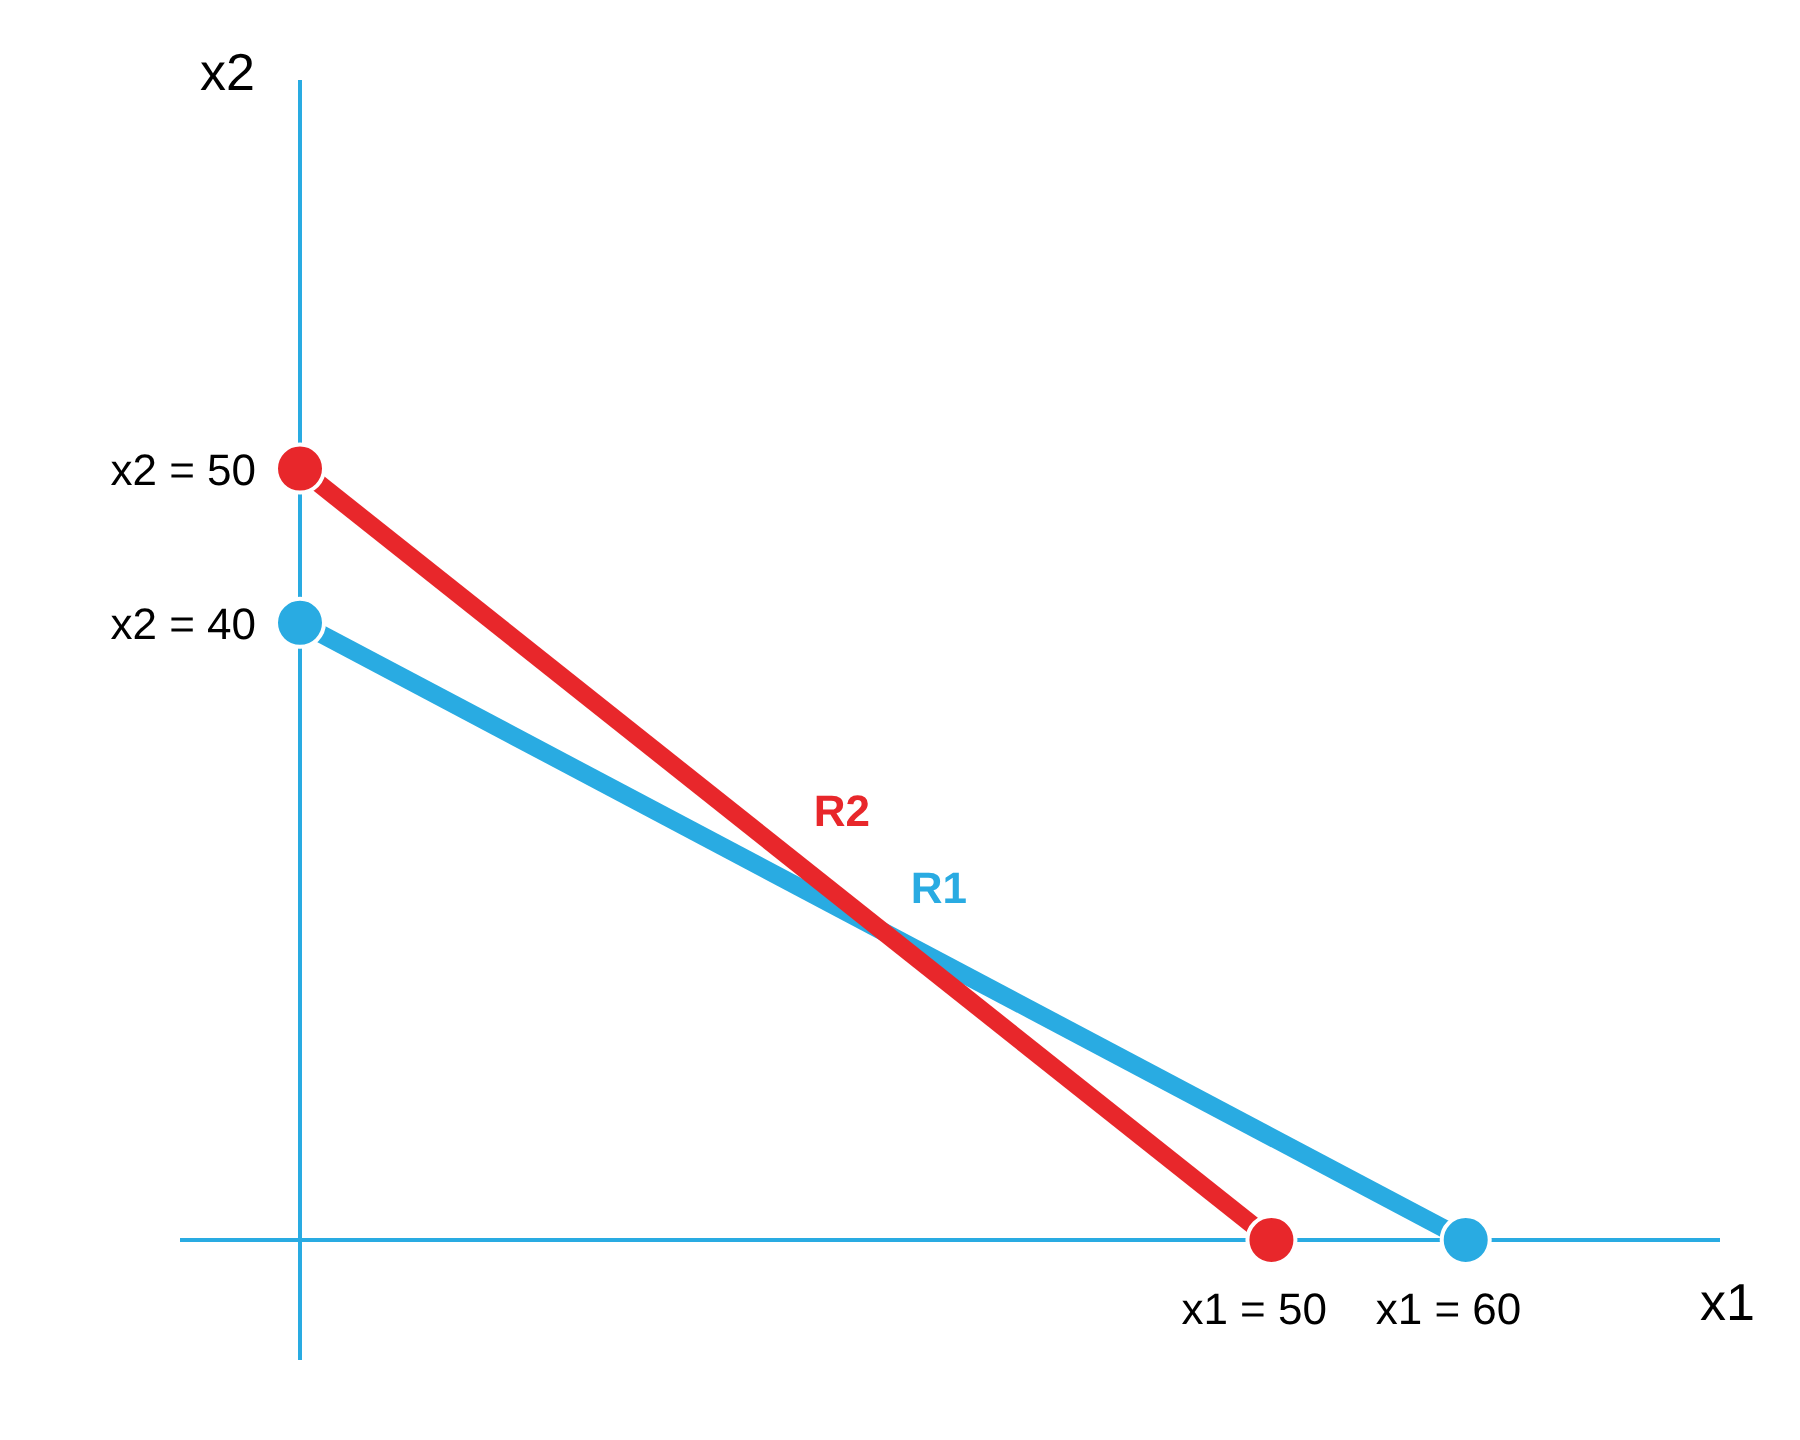
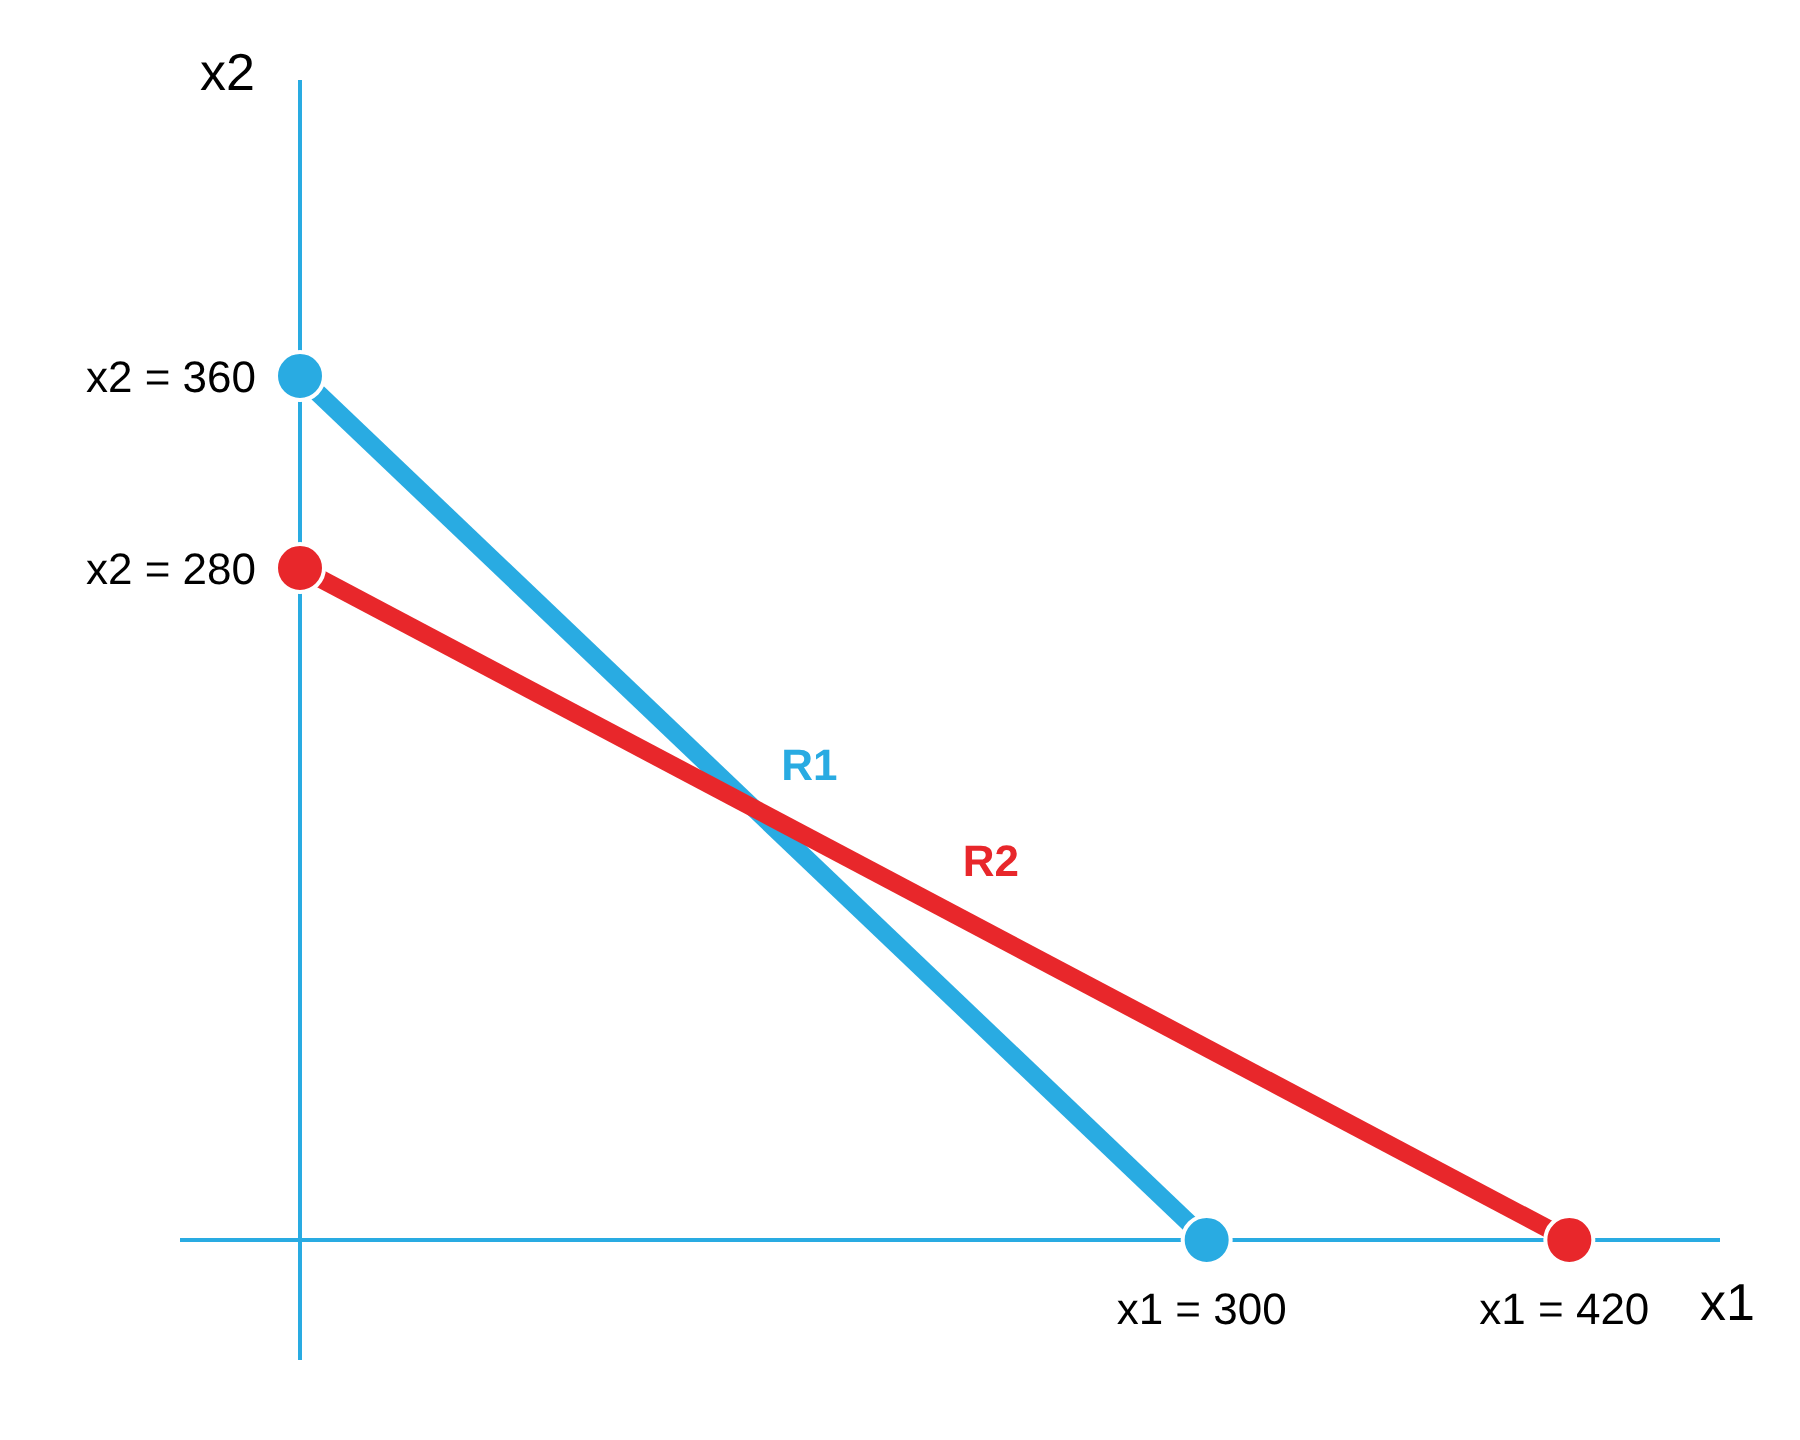
Método gráfico FIBO: datos aproximados realistas (cajas de 12, aislado de suero, tiempos de línea, marketing) y gráficas actualizadas
Claude-Session: https://claude.ai/code/session_01EttaFx3XE8a8nmruHneUwD

Changed region(s): [[0.0622, 0.25, 0.9022, 0.9375]]

diff --git a/metodo-grafico-fibo/graficas.js b/metodo-grafico-fibo/graficas.js
@@ -5,16 +5,16 @@ const fs = require('fs');
 const AZUL = '#29abe2', ROJO = '#e8272b', AMARILLO = '#f2e600';
 
 const problemas = [
-  { archivo: 'ejercicio-1', max: 70, lineas: [
-    { n: 'R1', x1: 60, x2: 40, c: AZUL },
-    { n: 'R2', x1: 50, x2: 50, c: ROJO } ] },
-  { archivo: 'ejercicio-2', max: 110, lineas: [
-    { n: 'R1', x1: 50, x2: 100, c: AZUL },
-    { n: 'R2', x1: 100, x2: 50, c: ROJO },
-    { n: 'R3', x1: 70, x2: 70, c: AMARILLO } ] },
-  { archivo: 'ejercicio-3', max: 170, lineas: [
-    { n: 'R1', x1: 100, x2: 100, c: AZUL },
-    { n: 'R2', x1: 160, x2: 80, c: ROJO } ] },
+  { archivo: 'ejercicio-1', max: 450, lineas: [
+    { n: 'R1', x1: 300, x2: 360, c: AZUL },
+    { n: 'R2', x1: 420, x2: 280, c: ROJO } ] },
+  { archivo: 'ejercicio-2', max: 540, lineas: [
+    { n: 'R1', x1: 250, x2: 500, c: AZUL },
+    { n: 'R2', x1: 420, x2: 210, c: ROJO },
+    { n: 'R3', x1: 330, x2: 330, c: AMARILLO } ] },
+  { archivo: 'ejercicio-3', max: 90, lineas: [
+    { n: 'R1', x1: 60, x2: 60, c: AZUL },
+    { n: 'R2', x1: 80, x2: 40, c: ROJO } ] },
 ];
 
 function svg(p) {
@@ -29,12 +29,14 @@ function svg(p) {
   for (const l of p.lineas) {
     out += `<line x1="${X(0)}" y1="${Y(l.x2)}" x2="${X(l.x1)}" y2="${Y(0)}" stroke="${l.c}" stroke-width="9"/>`;
   }
+  const orden = [...p.lineas].sort((a, b) => a.x1 - b.x1);
+  orden.forEach((l, i) => { l.dy = i > 0 && (l.x1 - orden[i - 1].x1) * s < 110 && !orden[i - 1].dy ? 30 : 0; });
   for (const l of p.lineas) {
     const borde = l.c === AMARILLO ? '#555' : '#fff';
     out += `<circle cx="${X(0)}" cy="${Y(l.x2)}" r="12" fill="${l.c}" stroke="${borde}" stroke-width="2"/>
       <circle cx="${X(l.x1)}" cy="${Y(0)}" r="12" fill="${l.c}" stroke="${borde}" stroke-width="2"/>
       <text x="${X(0) - 22}" y="${Y(l.x2) + 8}" font-size="22" text-anchor="end">x2 = ${l.x2}</text>
-      <text x="${X(l.x1) - 45}" y="${oy + 42}" font-size="22">x1 = ${l.x1}</text>
+      <text x="${X(l.x1) - 45}" y="${oy + 42 + l.dy}" font-size="22">x1 = ${l.x1}</text>
       <text x="${X(l.x1 * 0.5) + 14}" y="${Y(l.x2 * 0.5) - 14}" font-size="22" font-weight="bold" fill="${l.c === AMARILLO ? '#b5a800' : l.c}">${l.n}</text>`;
   }
   return out + '</svg>';

diff --git a/metodo-grafico-fibo/README.md b/metodo-grafico-fibo/README.md
@@ -1,171 +1,204 @@
 # Método gráfico con FIBO
 
 Tres ejercicios con la barra FIBO, resueltos con el mismo procedimiento de la Clase 02
-(Introducción al Método Gráfico): Paso 1 a Paso 4. Los números son ilustrativos.
+(Introducción al Método Gráfico): Paso 1 a Paso 4.
+
+Los datos son **aproximados**: no tenemos las cifras reales de El Molino, así que se estimaron
+con valores típicos de la industria de barras de proteína. Debajo de cada ejercicio está de dónde sale cada número.
+
+Datos base de FIBO: barra de 65 g con 22 g de proteína, precio al público aprox. $43 (fibo.mx).
+Unidad de producción: **caja de 12 barras**. Turno: 8 h, de las que 7 h (420 min) son efectivas
+(se descuentan arranque, limpieza y comida).
 
 Nota: los valores "x1" se representan en el eje X (horizontal) y los valores "x2" en el eje Y (vertical).
 Condición de no negatividad: x1 ≥ 0, x2 ≥ 0 (solo primer cuadrante).
 
 ---
 
-## Ejercicio 1 (2 restricciones)
+## Ejercicio 1: Producción de Chocolate y Cookies (2 restricciones)
 
-El Molino produce dos sabores de FIBO y quiere maximizar su utilidad diaria.
-Cada caja de Chocolate deja $120 y cada caja de Cookies deja $150.
-Cada caja de Chocolate usa 2 kg de proteína y cada caja de Cookies usa 3 kg; hay 120 kg al día.
-Cada caja (de cualquier sabor) usa 1 hora de empacado; hay 50 horas al día.
+### Datos aproximados
 
-Variables de decisión:
-- x1 = cajas de FIBO Chocolate a producir
-- x2 = cajas de FIBO Cookies a producir
+| Concepto | Chocolate | Cookies | Disponible por turno |
+|---|---|---|---|
+| Aislado de suero (kg por caja) | 0.30 | 0.25 | 90 kg |
+| Tiempo de formado (min por caja) | 1 | 1.5 | 420 min |
+| Utilidad (por caja) | $120 | $114 | |
+
+De dónde salen:
+- **Aislado de suero:** tiene alrededor de 90% de proteína. Para que la barra de Chocolate llegue a 22 g de proteína se necesitan unos 25 g de aislado por barra: 25 g × 12 = 300 g = **0.30 kg por caja**. La de Cookies lleva trozos de galleta y crispies proteicos que aportan parte de la proteína, así que usa menos aislado: unos 21 g por barra, que da **0.25 kg por caja**.
+- **90 kg por turno:** el aislado llega en sacos de 20 kg; el almacén libera 4 sacos y medio por turno.
+- **Tiempo de formado:** una línea semiautomática (mezclado, laminado y corte) saca unas 12 barras por minuto, o sea **1 caja por minuto**. Cookies lleva una capa de galleta extra y la línea va más lento: **1.5 min por caja**.
+- **Utilidad:** la barra se vende a tiendas en unos $30 (el público paga ~$43) y cuesta producirla unos $20, así que deja ~$10 por barra: **$120 por caja**. Cookies tiene ingredientes más caros y deja ~$9.50 por barra: **$114 por caja**.
+
+### Variables de decisión
+- x1 = cajas de FIBO Chocolate a producir por turno
+- x2 = cajas de FIBO Cookies a producir por turno
 
 ```
 Maximizar:
-    F.O.:   120x1 + 150x2
+    F.O.:   120x1 + 114x2
 Sujeto a:
-    R1:   2x1 + 3x2 ≤ 120     (proteína)
-    R2:   1x1 + 1x2 ≤ 50      (empacado)
+    R1:   0.30x1 + 0.25x2 ≤ 90     (kg de aislado de suero)
+    R2:   1x1 + 1.5x2 ≤ 420        (minutos de formado)
 ```
 
-Paso 1: Crear un sistema de ecuaciones con igualdades
+**Paso 1: Crear un sistema de ecuaciones con igualdades**
 ```
-R1:  2x1 + 3x2 ≤ 120   →   2x1 + 3x2 = 120
-R2:  1x1 + 1x2 ≤ 50    →   1x1 + 1x2 = 50
-```
-
-Paso 2: Encontrar valores X1 y X2 en ambas ecuaciones (eliminar X2 para encontrar X1 y viceversa)
-```
-1)  2x1 = 120
-    3x2 = 120
-
-2)  1x1 = 50
-    1x2 = 50
+R1:  0.30x1 + 0.25x2 ≤ 90    →   0.30x1 + 0.25x2 = 90
+R2:  1x1 + 1.5x2 ≤ 420       →   1x1 + 1.5x2 = 420
 ```
 
-Paso 3: Despejar ecuación y encontrar valor X1 y X2
+**Paso 2: Encontrar valores X1 y X2 en ambas ecuaciones (eliminar X2 para encontrar X1 y viceversa)**
 ```
-1)  2x1 = 120 → x1 = 120/2 = 60
-    3x2 = 120 → x2 = 120/3 = 40
+1)  0.30x1 = 90
+    0.25x2 = 90
 
-2)  1x1 = 50  → x1 = 50/1 = 50
-    1x2 = 50  → x2 = 50/1 = 50
+2)  1x1 = 420
+    1.5x2 = 420
 ```
 
-Paso 4: Representar valores en gráfica (plano cartesiano)
-- R1 (azul): de x1 = 60 a x2 = 40
-- R2 (rojo): de x1 = 50 a x2 = 50
+**Paso 3: Despejar ecuación y encontrar valor X1 y X2**
+```
+1)  0.30x1 = 90 → x1 = 90/0.30 = 300
+    0.25x2 = 90 → x2 = 90/0.25 = 360
+
+2)  1x1 = 420   → x1 = 420/1 = 420
+    1.5x2 = 420 → x2 = 420/1.5 = 280
+```
+
+**Paso 4: Representar valores en gráfica (plano cartesiano)**
+- R1 (azul): de x1 = 300 a x2 = 360
+- R2 (rojo): de x1 = 420 a x2 = 280
 
 ![Ejercicio 1](ejercicio-1.png)
 
 ---
 
-## Ejercicio 2 (3 restricciones)
+## Ejercicio 2: Producción de Brownie y Frutos rojos (3 restricciones)
 
-FIBO va a producir lotes de Brownie y Frutos rojos y quiere maximizar su utilidad.
-Cada lote de Brownie deja $3 mil y cada lote de Frutos rojos deja $2 mil.
-- Proteína: Brownie usa 2 kg y Frutos rojos 1 kg por lote; hay 100 kg.
-- Cobertura/relleno: Brownie usa 1 kg y Frutos rojos 2 kg por lote; hay 100 kg.
-- Horas de horno: cada lote usa 1 hora; hay 70 horas.
+### Datos aproximados
 
-Variables de decisión:
-- x1 = lotes de FIBO Brownie a producir
-- x2 = lotes de FIBO Frutos rojos a producir
+| Concepto | Brownie | Frutos rojos | Disponible por turno |
+|---|---|---|---|
+| Cobertura de chocolate (kg por caja) | 0.24 | 0.12 | 60 kg |
+| Tiempo de mezclado y formado (min por caja) | 1 | 2 | 420 min |
+| Tiempo de empacado (min por caja) | 1 | 1 | 330 min |
+| Utilidad (por caja) | $120 | $102 | |
+
+De dónde salen:
+- **Cobertura de chocolate:** la de Brownie va bañada completa, unos 20 g por barra: 20 × 12 = **0.24 kg por caja**. La de Frutos rojos solo lleva base de chocolate, unos 10 g por barra: **0.12 kg por caja**. La temperadora de chocolate prepara **60 kg por turno**.
+- **Mezclado y formado:** Brownie va a 1 caja por minuto. A Frutos rojos se le agrega fruta liofilizada con cuidado para no romperla, así que va a la mitad de velocidad: **2 min por caja**.
+- **Empacado:** la empacadora flow-pack (envoltura individual) más el armado de la caja toma **1 min por caja** para cualquier sabor. Solo está libre **330 min** para FIBO porque el resto del turno empaca otros productos de El Molino y se hace cambio de formato.
+- **Utilidad:** Brownie deja ~$10 por barra (**$120 por caja**). La fruta liofilizada es cara, así que Frutos rojos deja ~$8.50 por barra (**$102 por caja**).
+
+### Variables de decisión
+- x1 = cajas de FIBO Brownie a producir por turno
+- x2 = cajas de FIBO Frutos rojos a producir por turno
 
 ```
 Maximizar:
-    F.O.:   3x1 + 2x2
+    F.O.:   120x1 + 102x2
 Sujeto a:
-    R1:   2x1 + 1x2 ≤ 100     (proteína)
-    R2:   1x1 + 2x2 ≤ 100     (cobertura/relleno)
-    R3:   1x1 + 1x2 ≤ 70      (horas de horno)
+    R1:   0.24x1 + 0.12x2 ≤ 60     (kg de cobertura de chocolate)
+    R2:   1x1 + 2x2 ≤ 420          (minutos de mezclado y formado)
+    R3:   1x1 + 1x2 ≤ 330          (minutos de empacado)
 ```
 
-Paso 1: Crear un sistema de ecuaciones con igualdades
+**Paso 1: Crear un sistema de ecuaciones con igualdades**
 ```
-R1:  2x1 + 1x2 = 100
-R2:  1x1 + 2x2 = 100
-R3:  1x1 + 1x2 = 70
-```
-
-Paso 2: Encontrar valores X1 y X2 en las ecuaciones (eliminar X2 para encontrar X1 y viceversa)
-```
-R1:  2x1 = 100
-     1x2 = 100
-
-R2:  1x1 = 100
-     2x2 = 100
-
-R3:  1x1 = 70
-     1x2 = 70
+R1:  0.24x1 + 0.12x2 = 60
+R2:  1x1 + 2x2 = 420
+R3:  1x1 + 1x2 = 330
 ```
 
-Paso 3: Despejar ecuación y encontrar valor X1 y X2
+**Paso 2: Encontrar valores X1 y X2 en las ecuaciones (eliminar X2 para encontrar X1 y viceversa)**
 ```
-R1:  2x1 = 100 → x1 = 100/2 = 50
-     1x2 = 100 → x2 = 100/1 = 100
+R1:  0.24x1 = 60
+     0.12x2 = 60
 
-R2:  1x1 = 100 → x1 = 100/1 = 100
-     2x2 = 100 → x2 = 100/2 = 50
+R2:  1x1 = 420
+     2x2 = 420
 
-R3:  1x1 = 70  → x1 = 70/1 = 70
-     1x2 = 70  → x2 = 70/1 = 70
+R3:  1x1 = 330
+     1x2 = 330
 ```
 
-Paso 4: Representar valores en gráfica (plano cartesiano)
-- R1 (azul): de x1 = 50 a x2 = 100
-- R2 (rojo): de x1 = 100 a x2 = 50
-- R3 (amarillo): de x1 = 70 a x2 = 70
+**Paso 3: Despejar ecuación y encontrar valor X1 y X2**
+```
+R1:  0.24x1 = 60 → x1 = 60/0.24 = 250
+     0.12x2 = 60 → x2 = 60/0.12 = 500
+
+R2:  1x1 = 420   → x1 = 420/1 = 420
+     2x2 = 420   → x2 = 420/2 = 210
+
+R3:  1x1 = 330   → x1 = 330/1 = 330
+     1x2 = 330   → x2 = 330/1 = 330
+```
+
+**Paso 4: Representar valores en gráfica (plano cartesiano)**
+- R1 (azul): de x1 = 250 a x2 = 500
+- R2 (rojo): de x1 = 420 a x2 = 210
+- R3 (amarillo): de x1 = 330 a x2 = 330
 
 ![Ejercicio 2](ejercicio-2.png)
 
 ---
 
-## Ejercicio 3 (marketing, 2 restricciones)
+## Ejercicio 3: Marketing de FIBO (2 restricciones)
 
-FIBO reparte su inversión entre anuncios en TikTok/Instagram y sampling en universidades
-y quiere maximizar cuántas personas prueban la barra.
-Cada mil pesos en anuncios logra 30 personas; cada mil pesos en sampling logra 50.
-- Presupuesto: $100 mil.
-- Horas del equipo: cada mil en anuncios requiere 1 hora y cada mil en sampling 2 horas; hay 160 horas.
+### Datos aproximados (por mes)
 
-Variables de decisión:
-- x1 = miles de pesos invertidos en anuncios
-- x2 = miles de pesos invertidos en sampling
+| Concepto | Anuncios TikTok/IG | Sampling en universidades | Disponible al mes |
+|---|---|---|---|
+| Dinero (miles de pesos) | 1 | 1 | $60 mil |
+| Horas del equipo (por cada mil invertido) | 2 | 4 | 160 h |
+| Personas que prueban o compran (por cada mil) | 25 | 35 | |
+
+De dónde salen:
+- **Anuncios:** en TikTok/Instagram en México, mil impresiones cuestan unos $50, así que $1,000 dan ~20,000 impresiones. Si compra alrededor del 0.12%, son **~25 personas por cada mil pesos**.
+- **Sampling:** con $1,000 se regalan ~35 barras (a ~$20 de costo cada una) y se cubre parte del promotor y el permiso del stand: **~35 personas por cada mil pesos**.
+- **Presupuesto:** **$60 mil al mes** para una marca mediana.
+- **Horas:** por cada mil en anuncios, unas 2 horas de crear contenido, pautar y contestar comentarios. Por cada mil en sampling, unas 4 horas de permisos con la universidad, traslado y montar el stand. Hay una persona de marketing dedicada a FIBO, **160 h al mes**.
+
+### Variables de decisión
+- x1 = miles de pesos invertidos en anuncios de TikTok/IG al mes
+- x2 = miles de pesos invertidos en sampling en universidades al mes
 
 ```
 Maximizar:
-    F.O.:   30x1 + 50x2
+    F.O.:   25x1 + 35x2      (personas que prueban o compran FIBO)
 Sujeto a:
-    R1:   1x1 + 1x2 ≤ 100     (presupuesto)
-    R2:   1x1 + 2x2 ≤ 160     (horas del equipo)
+    R1:   1x1 + 1x2 ≤ 60       (presupuesto, miles de pesos)
+    R2:   2x1 + 4x2 ≤ 160      (horas del equipo)
 ```
 
-Paso 1: Crear un sistema de ecuaciones con igualdades
+**Paso 1: Crear un sistema de ecuaciones con igualdades**
 ```
-R1:  1x1 + 1x2 = 100
-R2:  1x1 + 2x2 = 160
-```
-
-Paso 2: Encontrar valores X1 y X2 en ambas ecuaciones
-```
-1)  1x1 = 100
-    1x2 = 100
-
-2)  1x1 = 160
-    2x2 = 160
+R1:  1x1 + 1x2 = 60
+R2:  2x1 + 4x2 = 160
 ```
 
-Paso 3: Despejar ecuación y encontrar valor X1 y X2
+**Paso 2: Encontrar valores X1 y X2 en ambas ecuaciones**
 ```
-1)  1x1 = 100 → x1 = 100/1 = 100
-    1x2 = 100 → x2 = 100/1 = 100
+1)  1x1 = 60
+    1x2 = 60
 
-2)  1x1 = 160 → x1 = 160/1 = 160
-    2x2 = 160 → x2 = 160/2 = 80
+2)  2x1 = 160
+    4x2 = 160
 ```
 
-Paso 4: Representar valores en gráfica (plano cartesiano)
-- R1 (azul): de x1 = 100 a x2 = 100
-- R2 (rojo): de x1 = 160 a x2 = 80
+**Paso 3: Despejar ecuación y encontrar valor X1 y X2**
+```
+1)  1x1 = 60  → x1 = 60/1 = 60
+    1x2 = 60  → x2 = 60/1 = 60
+
+2)  2x1 = 160 → x1 = 160/2 = 80
+    4x2 = 160 → x2 = 160/4 = 40
+```
+
+**Paso 4: Representar valores en gráfica (plano cartesiano)**
+- R1 (azul): de x1 = 60 a x2 = 60
+- R2 (rojo): de x1 = 80 a x2 = 40
 
 ![Ejercicio 3](ejercicio-3.png)
